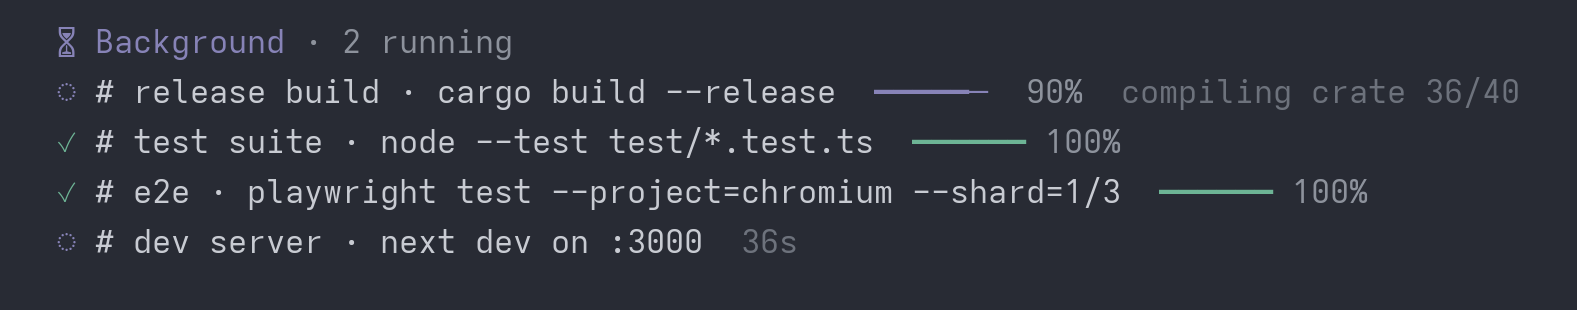
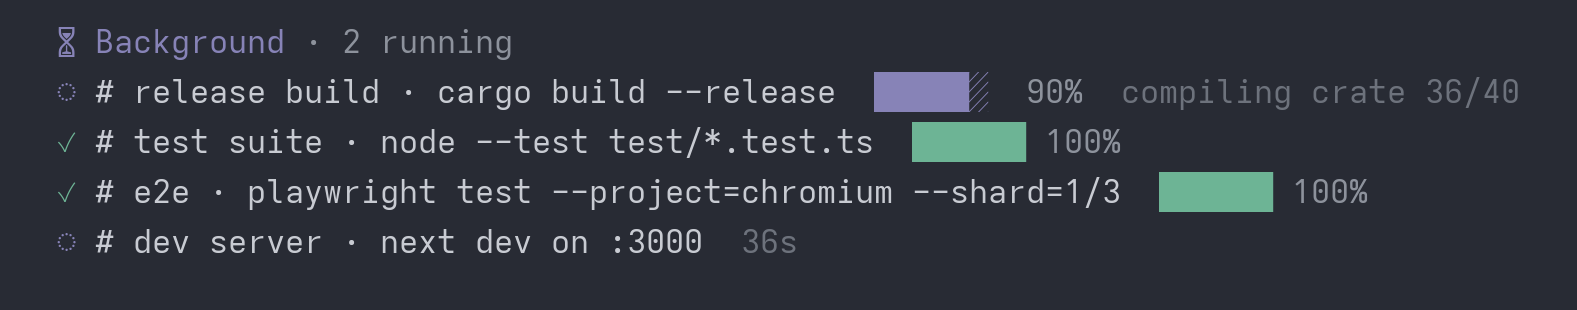
Use block glyphs in the progress bar
Adwaita Mono (the default Fedora terminal font) draws ━ and ─ at nearly the same
weight, so a line-style bar read as one thin rule with no visible fill boundary.
█ / ▌ / ░ make the filled part and the track unmistakable at any size.

Tests, the README card example and the card render behind the gallery cover are
updated; card-frame.png and cover.png regenerated from the same renderer.

Changed region(s): [[0.5282, 0.2323, 0.6525, 0.5226], [0.7146, 0.5516, 0.8079, 0.6968]]

diff --git a/test/core.test.ts b/test/core.test.ts
@@ -90,9 +90,9 @@ test("phase-only update keeps the last percentage", () => {
 // ------------------------------------------------------------ card
 
 test("bar and card rendering", () => {
-  assert.equal(bar(0), "──────");
-  assert.equal(bar(100), "━━━━━━");
-  assert.equal(bar(42), "━━╺───");
+  assert.equal(bar(0), "░░░░░░");
+  assert.equal(bar(100), "██████");
+  assert.equal(bar(42), "██▌░░░");
   const fg = (_c: string, s: string) => s;
   const now = Date.now();
   const rows = [
@@ -102,8 +102,8 @@ test("bar and card rendering", () => {
   ];
   const lines = renderCard(rows, fg, now);
   assert.equal(lines[0], "⏳ Background · 1 running");
-  assert.match(lines[1], /^◌ cargo test {2}━━╺─── {2}42%/);
-  assert.match(lines[2], /^✓ cargo build {2}━━━━━━ 100%/);
+  assert.match(lines[1], /^◌ cargo test {2}██▌░░░ {2}42%/);
+  assert.match(lines[2], /^✓ cargo build {2}██████ 100%/);
   assert.match(lines[3], /^× lint {2}failed/);
   const many = Array.from({ length: 8 }, (_, i) => ({ ...rows[0], id: `r${i}`, label: `t${i}` }));
   const l2 = renderCard(many, fg, now);

diff --git a/test/extension.test.ts b/test/extension.test.ts
@@ -106,7 +106,7 @@ test("background bash: card, footer, completion delivery, no double run", async 
   assert.match(msg!.msg.content, /Full output: /);
   assert.equal(h.notices.pop()!.includes("done"), true);
   await until(() => h.statuses.get("bg-tasks") === undefined);
-  assert.match(h.cardLines()[1], /^✓ echo out; sleep 0\.4 {2}━━━━━━ 100%/);
+  assert.match(h.cardLines()[1], /^✓ echo out; sleep 0\.4 {2}██████ 100%/);
 });
 
 test("background bash failures stay in the card and report the exit code", async () => {

diff --git a/core.ts b/core.ts
@@ -783,7 +783,7 @@ export function bar(percent: number, cells = 6): string {
   const exact = (Math.min(100, Math.max(0, percent)) / 100) * cells;
   const full = Math.floor(exact);
   const half = exact - full >= 0.5 && full < cells ? 1 : 0;
-  return "━".repeat(full) + "╺".repeat(half) + "─".repeat(cells - full - half);
+  return "█".repeat(full) + "▌".repeat(half) + "░".repeat(cells - full - half);
 }
 
 export type Fg = (color: "accent" | "success" | "error" | "muted" | "dim" | "text" | "warning", text: string) => string;

diff --git a/CHANGELOG.md b/CHANGELOG.md
@@ -21,7 +21,8 @@ Initial release. A port of the background-task model from
 - Delivery: notify queues for the next turn, wake starts or steers a turn,
   stall watchdog for silent tasks.
 - TUI: `⏳ Background` card with progress bars and retention rules, footer
-  count, compact completion card, `/bg` command family.
+  count, compact completion card, `/bg` command family. Bars use block glyphs
+  (`█ ▌ ░`), which stay legible in fonts where heavy and light rules look alike.
 - Reload and resume safety: detached tasks are reconciled from their status
   files, and a terminal status is never overwritten by a stale follower.
 - Hardened storage: the task directory is `0700` (files `0600`), a directory

diff --git a/README.md b/README.md
@@ -13,8 +13,8 @@ told when it is done.
 
 ```text
 ⏳ Background · 1 running
-◌ cargo test  ━━━╺──  42%  running integration tests
-✓ cargo build  ━━━━━━ 100%
+◌ cargo test  ██▌░░░  42%  running integration tests
+✓ cargo build  ██████ 100%
 ```
 
 ## Features
